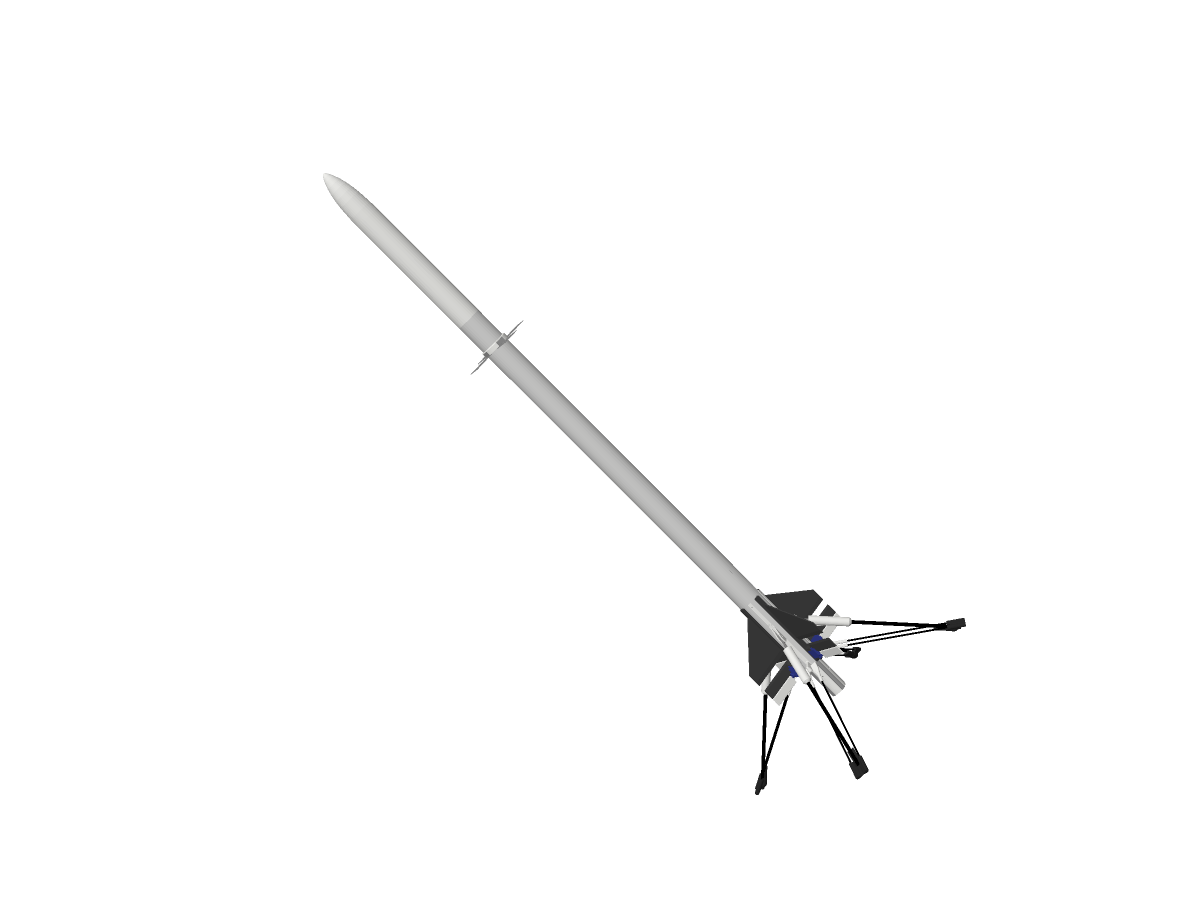
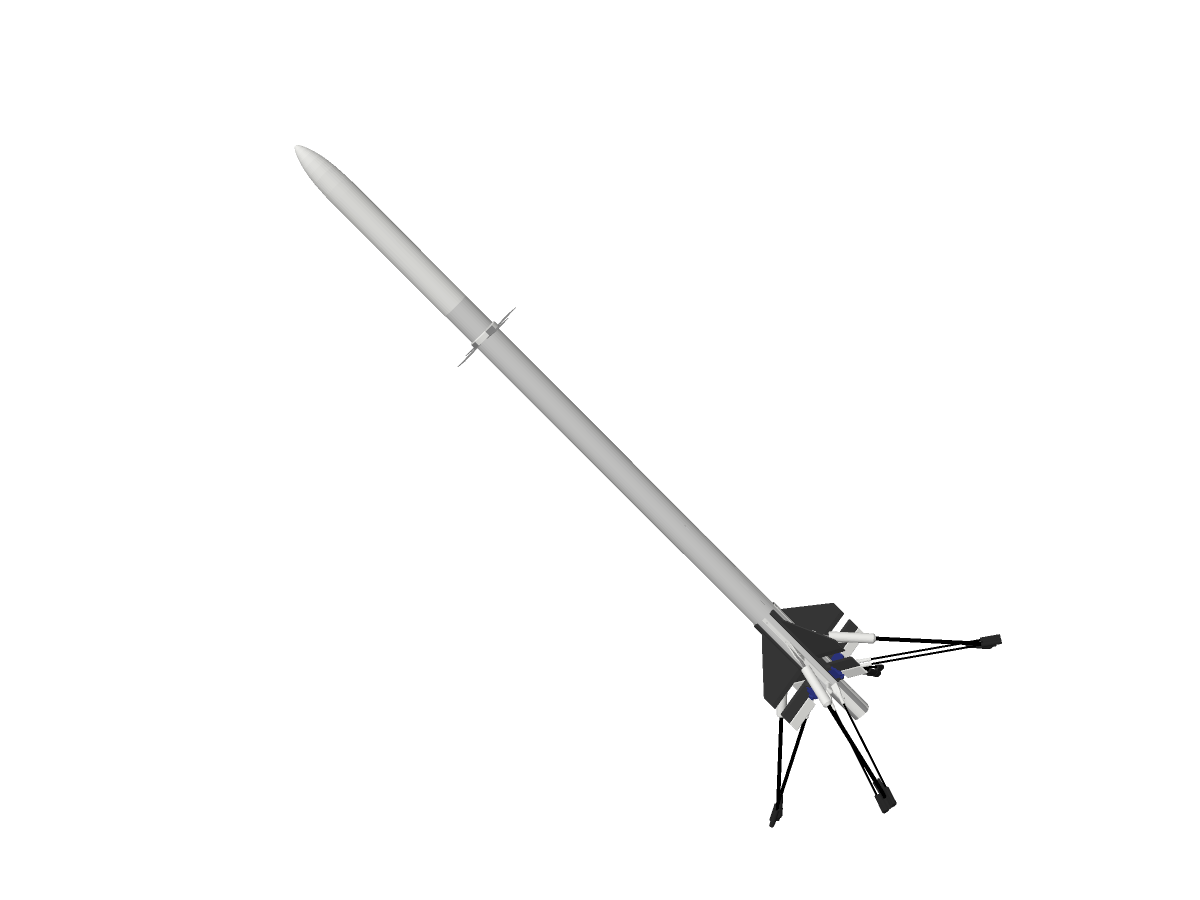
히어로 로켓 확대 + 커서 시차
- fit 0.86 → 0.95. 우상단 박스로 옮기면서 여백이 필요 이상 남았다.
  채움률 X 55→61% / Y 81→89% (1440x900)
- 커서 시차: yaw ±14° / pitch ±7° 를 궤도각에 얹는다.
  모델이 아니라 카메라만 도는 이유 — 모델을 돌리면 AABB 프레이밍과 렌더가 어긋난다.
  궤도각은 fitDistance 가 이미 쓰는 축이라 자동으로 일치한다
- 캔버스가 pointer-events:none 이라 window 에서 듣는다. 배경 레이어가 링크 클릭을
  가로채면 안 된다. 좌표는 state 가 아니라 ref 에 적는다 — state 면 마우스가 움직일 때마다
  60fps 로 React 트리를 다시 그린다
- (pointer: fine) 아니면 안 붙인다. 터치에서 pointermove 는 탭마다 튄다
- 창을 벗어나면 중앙 복귀. 안 하면 마지막 위치에서 굳는다
- prefers-reduced-motion 이면 시차 비활성
- 지수 감쇠는 useFrame 의 delta 인자를 쓴다. state.clock.getDelta() 를 쓰면
  R3F 가 같은 시계로 자기 delta 를 뽑으므로 시간을 훔쳐 자동회전이 멈춘다
- 포스터 재굽기 (fit 0.95). 커서 중앙일 때와 같은 그림이어야 승격에서 안 튄다

Changed region(s): [[0.6167, 0.6533, 0.8325, 0.9022], [0.37, 0.3422, 0.4317, 0.4044], [0.2467, 0.1556, 0.3083, 0.2178]]

diff --git a/src/components/three/Scene.tsx b/src/components/three/Scene.tsx
@@ -59,14 +59,57 @@ interface RigProps {
  * `getBoundingClientRect()` 를 프레임마다 부르는 것은 의도적이다 — 스크롤 이벤트를 모아
  * 캐시하는 것보다 정확하고, 이 프레임에서 DOM 을 쓰지 않으므로 레이아웃 스래싱이 없다.
  */
+/**
+ * 커서 위치를 −1..1 로 추적한다.
+ *
+ * 캔버스가 `pointer-events: none` 이라 캔버스 자체는 이벤트를 못 받는다 — 받으면 안 된다.
+ * 배경 레이어가 링크·버튼 클릭을 가로채는 순간 페이지가 망가진다.
+ * 그래서 **window 에서 듣고** 좌표만 ref 에 적는다. state 를 쓰면 마우스가 움직일 때마다
+ * 리렌더가 나서 60fps 로 React 트리를 다시 그리게 된다.
+ *
+ * 터치 기기에서는 붙이지 않는다 — `pointermove` 가 탭마다 한 번씩 튀어 화면이 흔들린다.
+ */
+function usePointerParallax(enabled: boolean) {
+  const pointer = useRef({ x: 0, y: 0 })
+
+  useEffect(() => {
+    if (!enabled) return
+    if (!window.matchMedia('(pointer: fine)').matches) return
+
+    const onMove = (e: PointerEvent) => {
+      pointer.current = {
+        x: (e.clientX / window.innerWidth) * 2 - 1,
+        y: (e.clientY / window.innerHeight) * 2 - 1,
+      }
+    }
+    // 커서가 창을 벗어나면 중앙으로 되돌린다. 안 하면 마지막 위치에서 굳는다.
+    const onLeave = () => {
+      pointer.current = { x: 0, y: 0 }
+    }
+
+    window.addEventListener('pointermove', onMove, { passive: true })
+    document.addEventListener('pointerleave', onLeave)
+    return () => {
+      window.removeEventListener('pointermove', onMove)
+      document.removeEventListener('pointerleave', onLeave)
+    }
+  }, [enabled])
+
+  return pointer
+}
+
 function CameraRig({ target, config, reducedMotion, boxRef }: RigProps) {
+  const pointer = usePointerParallax(!reducedMotion)
+  // 목표값을 그대로 쓰면 커서를 튕길 때 카메라가 같이 튄다. 프레임마다 지수 감쇠로 따라간다.
+  const smoothed = useRef({ x: 0, y: 0 })
+
   /**
    * `useThree()` 로 카메라를 꺼내 쓰지 않는다. React Compiler 의 `react-hooks/immutability` 는
    * **훅이 돌려준 값을 렌더 이후에 변형하는 것**을 금지하는데, R3F 에서 카메라를 매 프레임
    * 고쳐 쓰는 것은 정확히 그 모양이다. `useFrame` 콜백 인자로 받은 state 는 훅 반환값이 아니라
    * 프레임 인자라 규칙에 걸리지 않고, 의미도 같다 — 오히려 최신 값이 보장된다.
    */
-  useFrame((state) => {
+  useFrame((state, delta) => {
     const box = boxRef.current
     if (box === null) return
     const camera = state.camera
@@ -80,7 +123,16 @@ function CameraRig({ target, config, reducedMotion, boxRef }: RigProps) {
       ? 0
       : MathUtils.clamp(-rect.top / Math.max(rect.height, 1), 0, 1)
 
-    applyStageCamera(camera, box, rect, state.size, config, progress)
+    // 지수 감쇠(프레임률 보정). `state.clock.getDelta()` 를 쓰면 안 된다 —
+    // R3F 가 같은 시계로 자기 delta 를 뽑으므로 시간을 훔쳐 자동회전이 멈춘다.
+    // 콜백 두 번째 인자가 이 프레임의 delta 다.
+    const k = 1 - Math.pow(0.001, Math.min(delta, 0.1) * 8)
+    smoothed.current = {
+      x: MathUtils.lerp(smoothed.current.x, pointer.current.x, k),
+      y: MathUtils.lerp(smoothed.current.y, pointer.current.y, k),
+    }
+
+    applyStageCamera(camera, box, rect, state.size, config, progress, smoothed.current)
   })
 
   return null

diff --git a/src/components/three/framing.ts b/src/components/three/framing.ts
@@ -124,10 +124,19 @@ export function applyStageCamera(
   rect: StageRect,
   canvas: CanvasSize,
   config: StageConfig,
-  progress: number
+  progress: number,
+  /**
+   * 커서 위치 −1..1 (뷰포트 중심 기준). 궤도각에 얹어 시차를 만든다.
+   * 모델을 움직이지 않고 **카메라만** 도는 이유: 모델을 돌리면 프레이밍 계산(AABB)과
+   * 실제 렌더가 어긋난다. 궤도각은 `fitDistance` 가 이미 쓰는 축이라 자동으로 일치한다.
+   */
+  pointer: { x: number; y: number } = { x: 0, y: 0 }
 ): void {
   const center = box.getCenter(new Vector3())
-  const dir = orbitDirection(config.yaw + progress * 18, config.pitch + progress * 4)
+  const dir = orbitDirection(
+    config.yaw + progress * 18 + pointer.x * config.pointerYaw,
+    config.pitch + progress * 4 + pointer.y * config.pointerPitch
+  )
   const distance = fitDistance(box, center, dir, rect.width, rect.height, config.fov, config.fit, config.roll)
   const span = box.getSize(new Vector3()).length()
 

diff --git a/src/components/three/config.ts b/src/components/three/config.ts
@@ -26,6 +26,9 @@ export interface StageConfig {
    * 90 이면 길쭉한 기체가 화면에서 가로로 눕는다 — 넓고 납작한 히어로 박스와 축이 맞는다.
    */
   roll: number
+  /** 커서 시차 최대 각(도). 0 이면 마우스에 반응하지 않는다. */
+  pointerYaw: number
+  pointerPitch: number
 }
 
 /**
@@ -41,9 +44,13 @@ export const DEFAULT_STAGE: StageConfig = {
   yaw: -28,
   pitch: 8,
   fov: 28,
-  fit: 0.86,
+  // 0.86 → 0.95. 우상단 박스로 옮기면서 여백이 필요 이상으로 남았다.
+  fit: 0.95,
   // 45 = 코가 화면 좌상향(시계방향 315°)을 향한다. 몸통은 우하로 뻗는다.
   // 히어로에서 로켓이 1·2·3 분면을 대각선으로 가로지르고 4분면은 로고가 쓴다.
   // (0 = 코 위, 90 = 코 왼쪽. 커질수록 반시계.)
   roll: 45,
+  // 과하면 콘텐츠보다 효과가 앞선다(레퍼런스 조사의 금지 항목). 눈에 띄되 거슬리지 않는 폭.
+  pointerYaw: 14,
+  pointerPitch: 7,
 }
